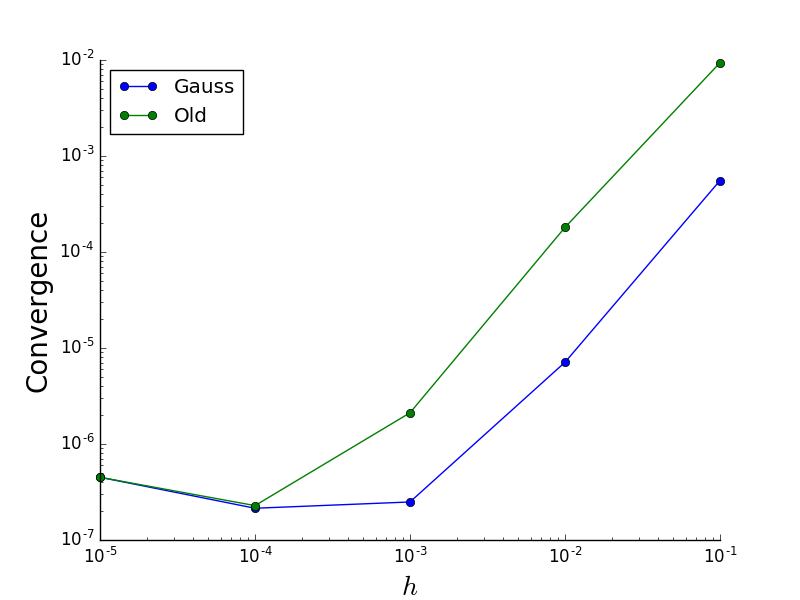
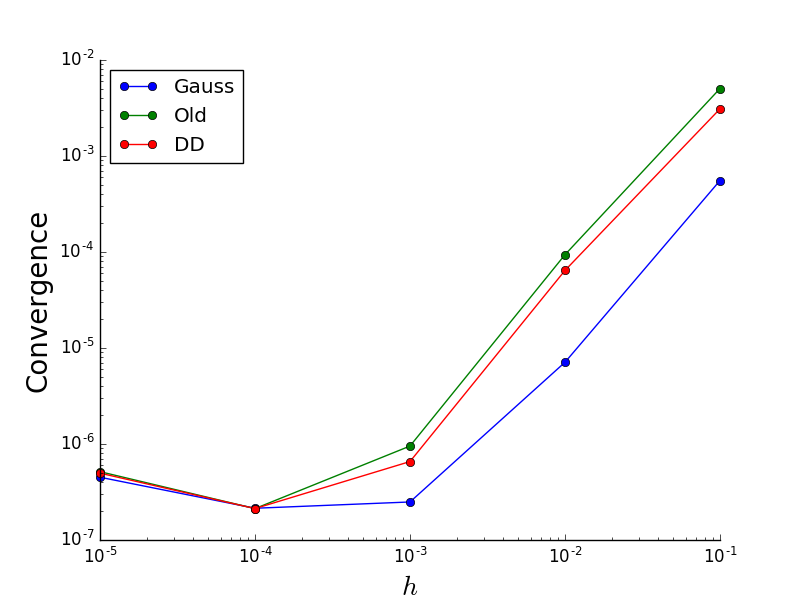
hlimit dd comparison

Changed region(s): [[0.1875, 0.09, 0.9062, 0.87], [0.125, 0.21, 0.3125, 0.3], [0.0938, 0.78, 0.1875, 0.81]]

diff --git a/code/hlimit.py b/code/hlimit.py
@@ -4,6 +4,7 @@ import numpy as np
 import matplotlib.pyplot as plt
 
 import ld as LD 
+import dd as DD 
 
 from hidespines import * 
 
@@ -26,6 +27,8 @@ diff = np.zeros(len(N))
 
 diffOld = np.zeros(len(N))
 
+diffDD = np.zeros(len(N))
+
 for i in range(len(N)):
 
 	xe = np.linspace(0, xb, N[i]+1) 
@@ -36,14 +39,19 @@ for i in range(len(N)):
 
 	old = LD.Eddington_old(xe, n, Sigmaa, Sigmat, q) 
 
+	dd = DD.Eddington(xe, n, Sigmaa, Sigmat, q)
+
 	x, phi, it = ed.sourceIteration(tol) 
 	xo, phio, ito = old.sourceIteration(tol)
+	xdd, phidd, itdd = dd.sourceIteration(tol)
 
 	diff[i] = np.linalg.norm(phi - ed.phi_SN, 2) / np.linalg.norm(ed.phi_SN, 2)
-	diffOld[i] = np.linalg.norm(phi - old.phi_SN, 2) / np.linalg.norm(old.phi_SN, 2) 
+	diffOld[i] = np.linalg.norm(phio - old.phi_SN, 2) / np.linalg.norm(old.phi_SN, 2) 
+	diffDD[i] = np.linalg.norm(phidd - dd.phi_SN, 2) / np.linalg.norm(dd.phi_SN, 2)
 
 plt.loglog(xb/N, diff, '-o', clip_on=False, label='Gauss')
 plt.loglog(xb/N, diffOld, '-o', clip_on=False, label='Old')
+plt.loglog(xb/N, diffDD, '-o', clip_on=False, label='DD')
 plt.xlabel(r'$h$', fontsize=20)
 plt.ylabel('Convergence', fontsize=20)
 plt.legend(loc='best')

diff --git a/code/dd.py b/code/dd.py
@@ -159,6 +159,9 @@ class Eddington(DD):
 		# get eddington factor 
 		mu2 = self.getEddington(psi)
 
+		# make SN phi public 
+		self.phi_SN = self.zeroMoment(psi)
+
 		# generate boundary eddington for transport consistency 
 		top = 0 
 		for i in range(self.n):
